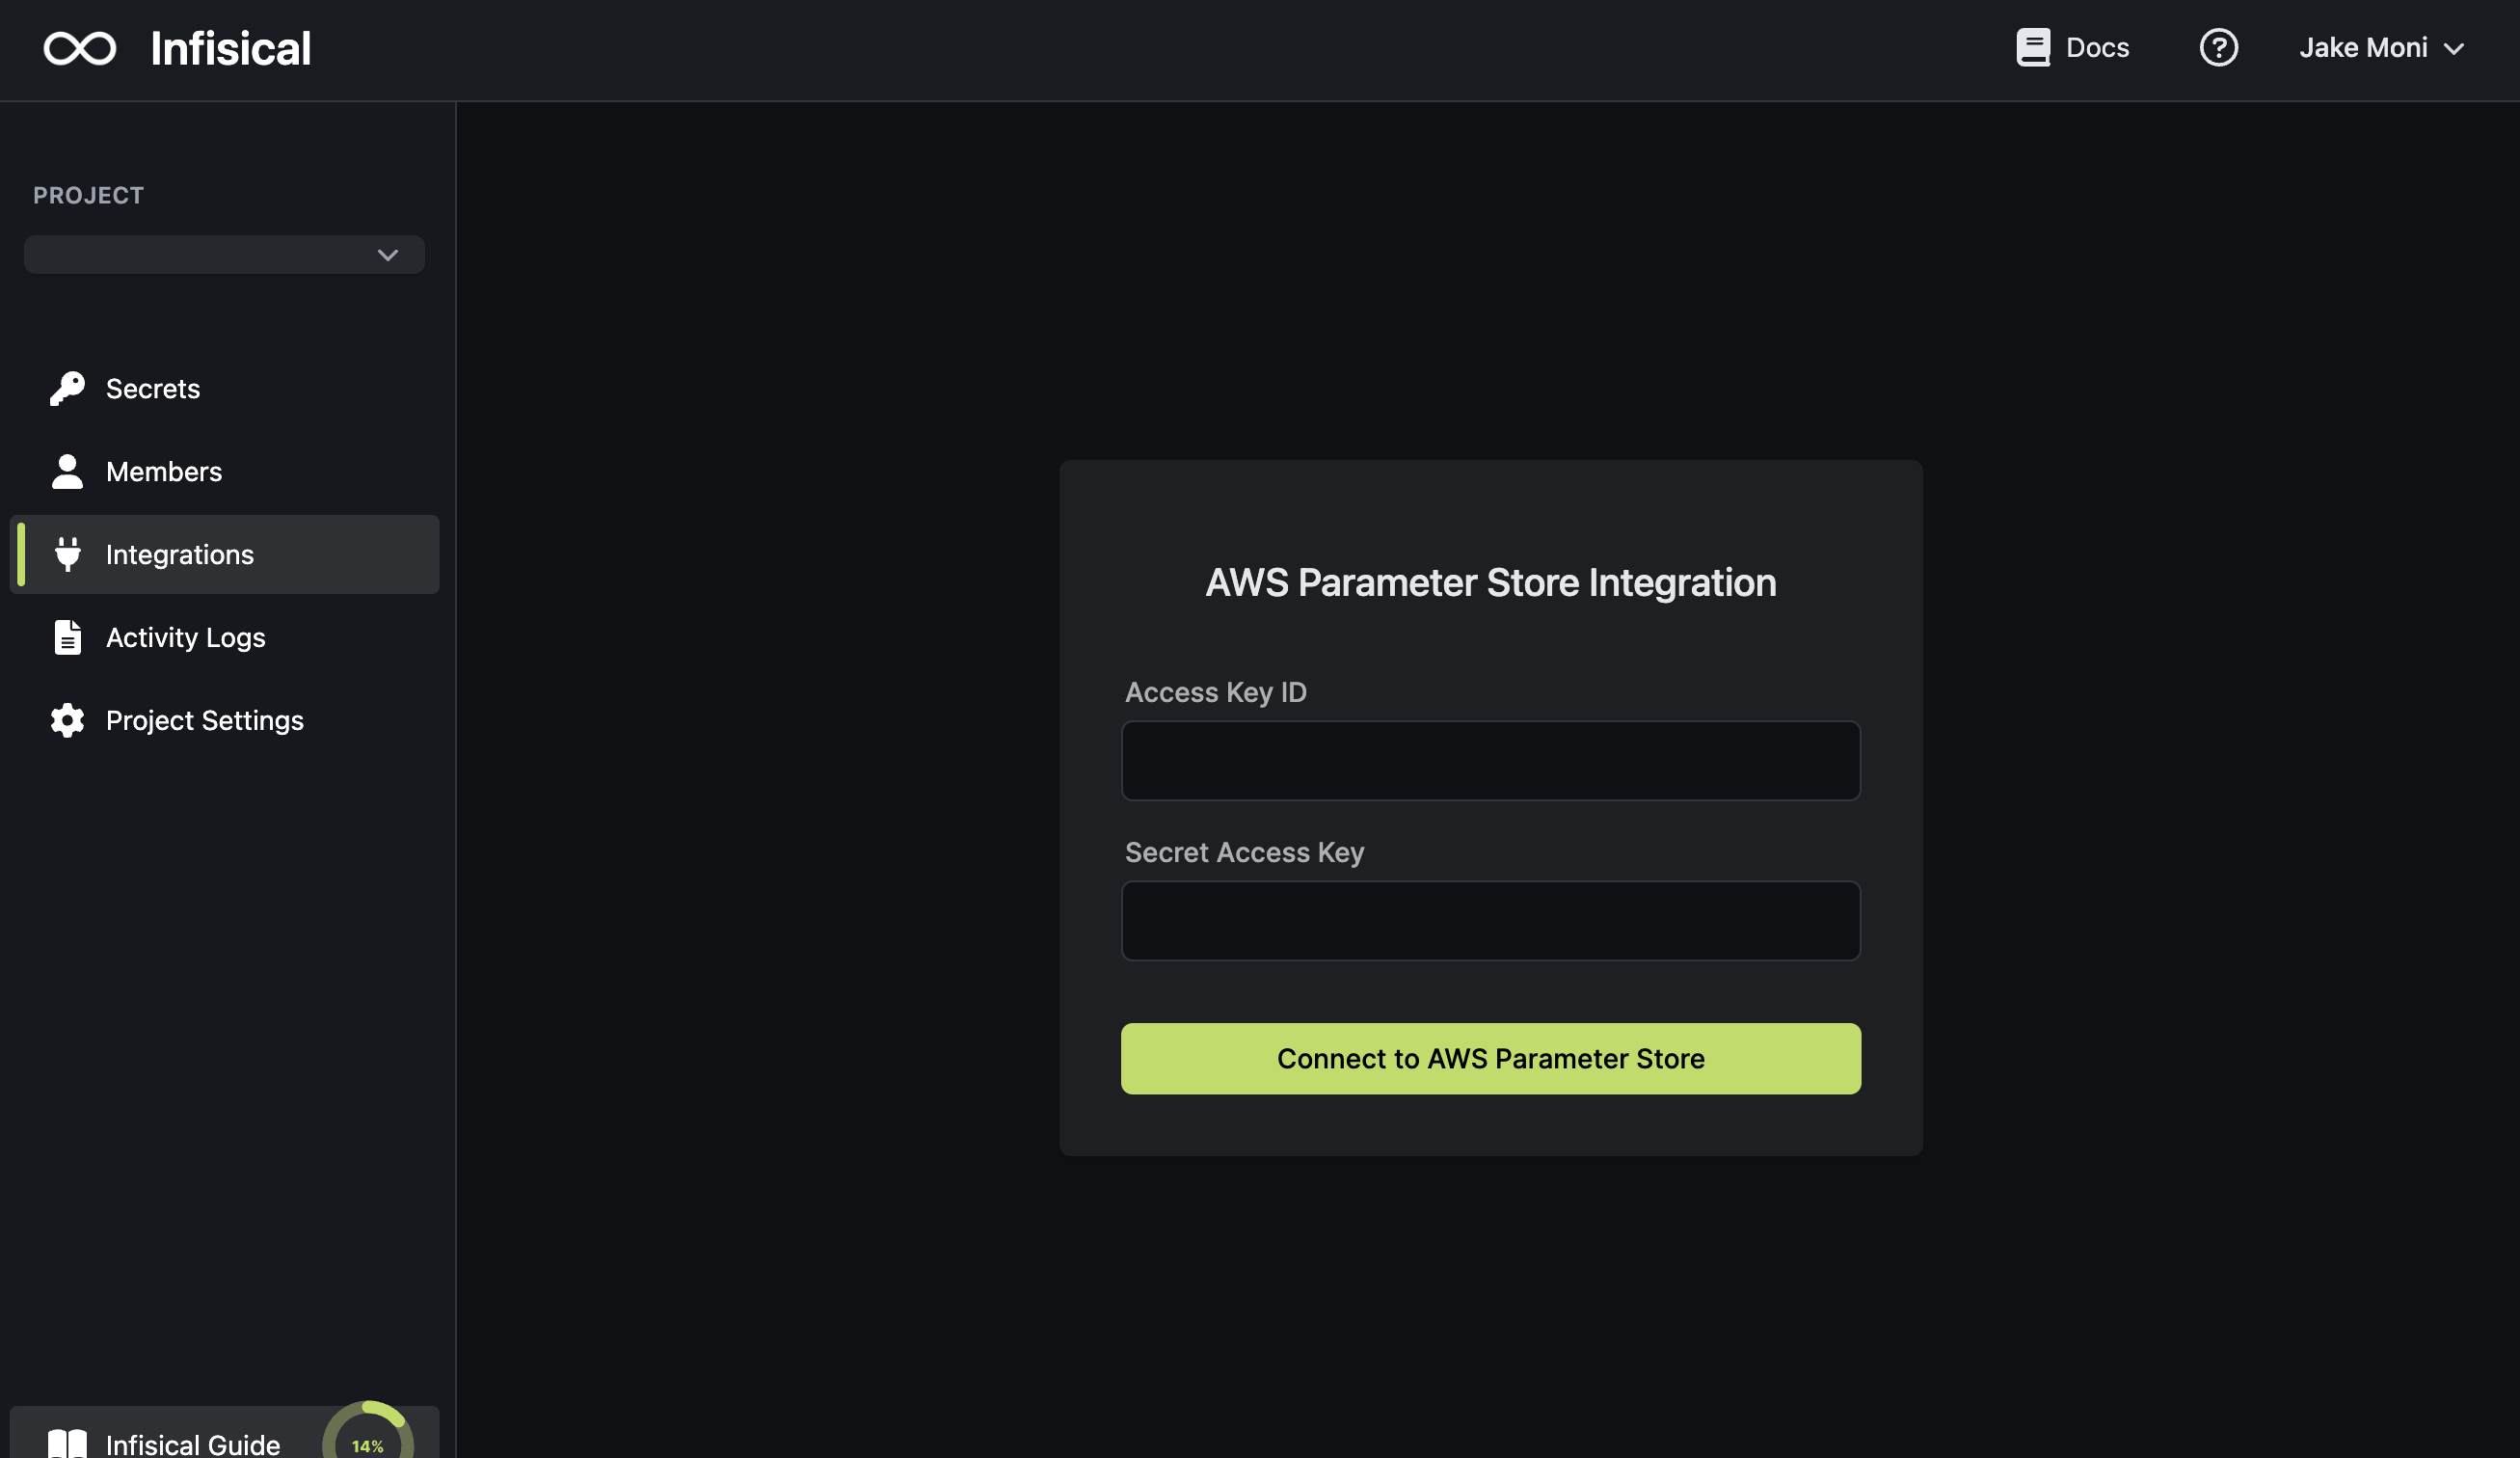
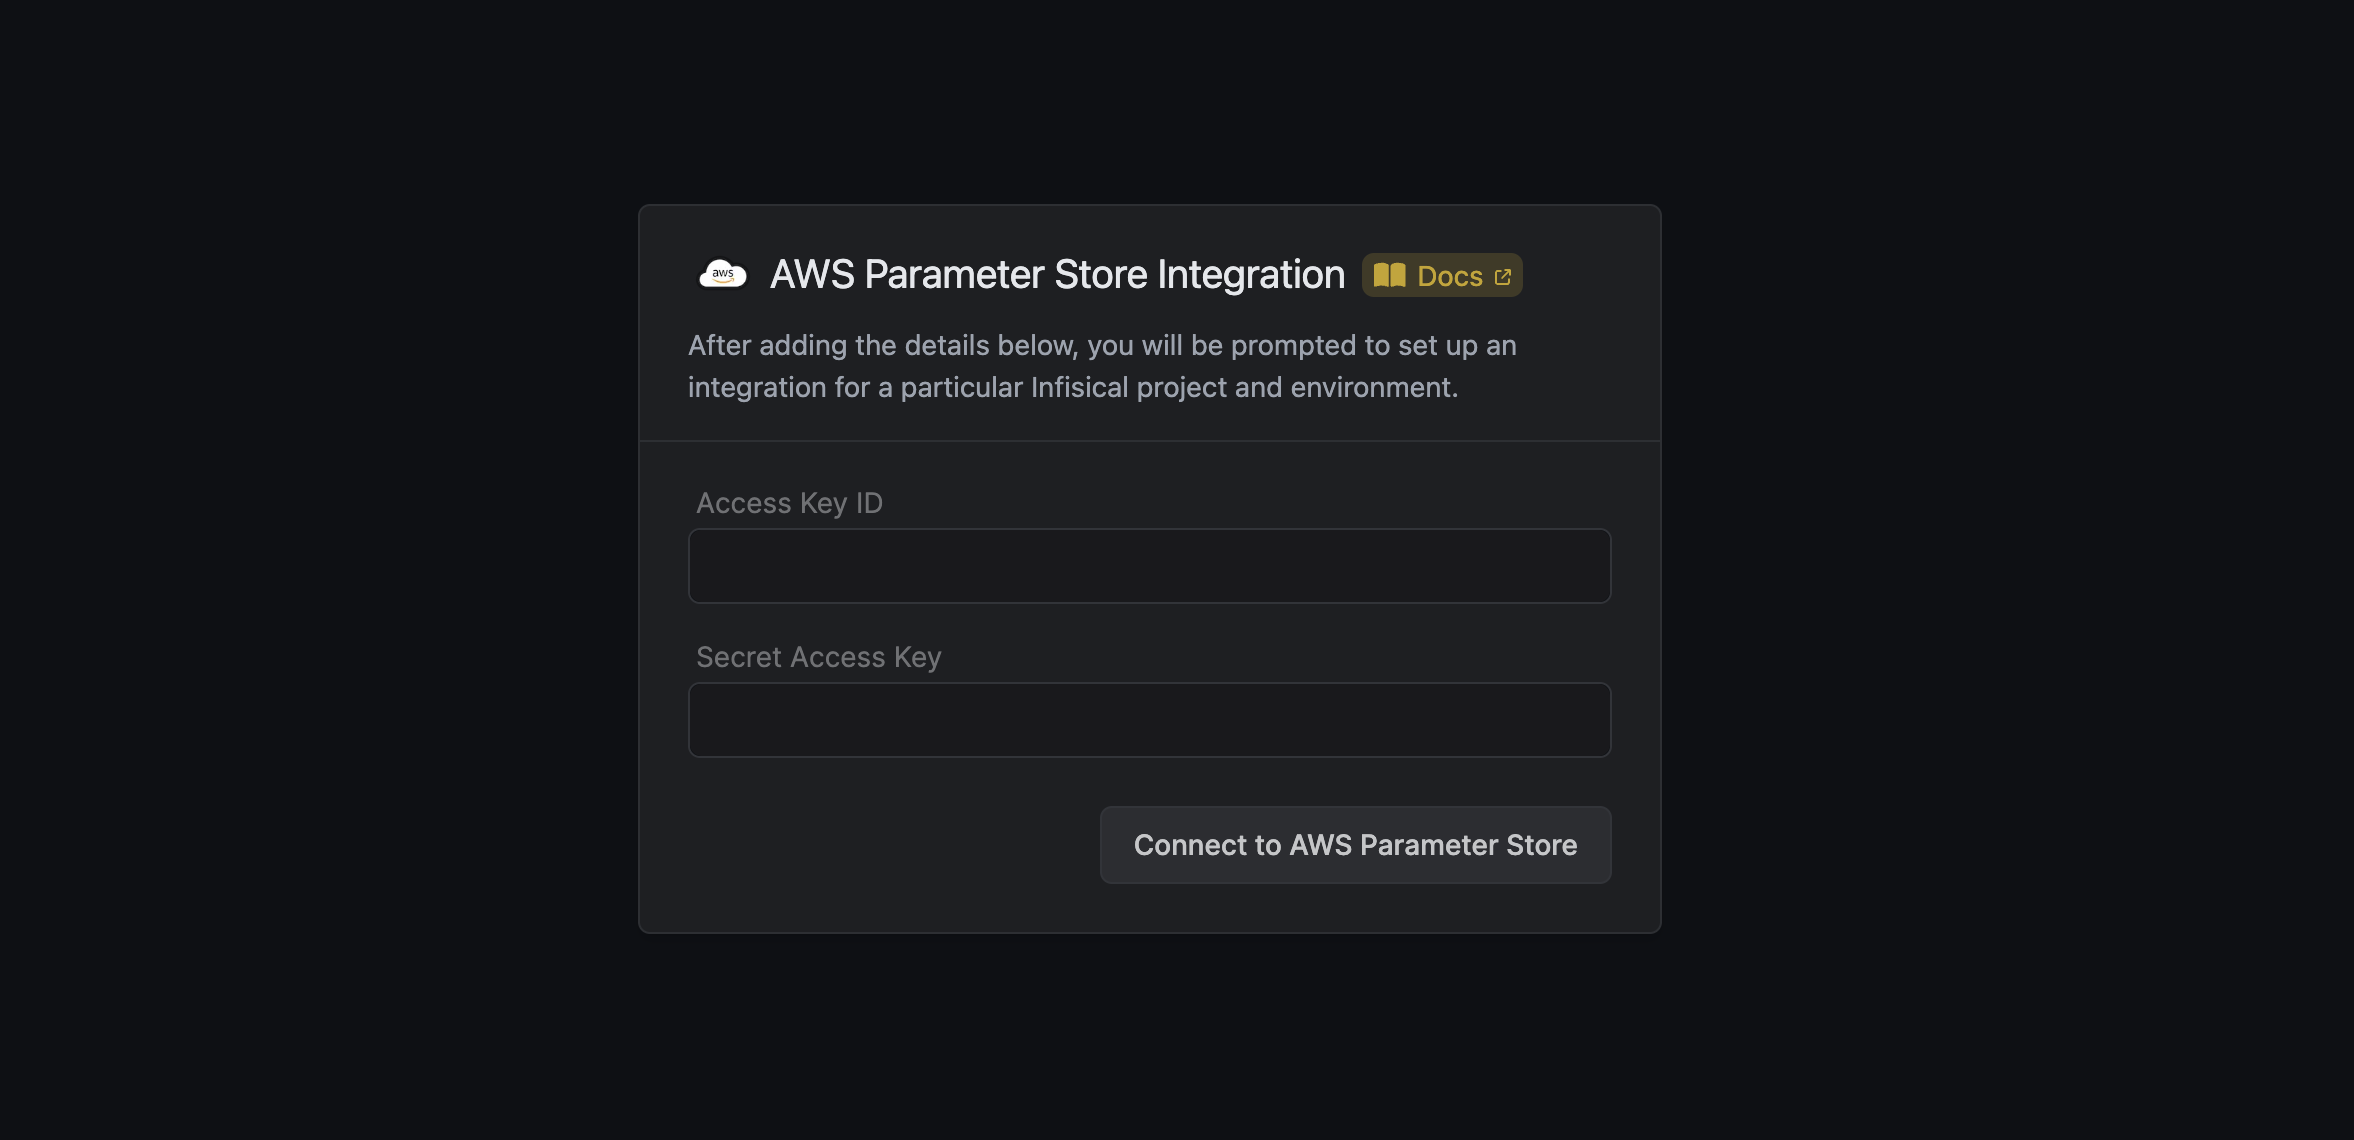
added kms key delector for parameter store

diff --git a/frontend/src/pages/integrations/aws-parameter-store/create.tsx b/frontend/src/pages/integrations/aws-parameter-store/create.tsx
@@ -14,6 +14,7 @@ import { motion } from "framer-motion";
 import queryString from "query-string";
 
 import { useCreateIntegration } from "@app/hooks/api";
+import { useGetIntegrationAuthAwsKmsKeys } from "@app/hooks/api/integrationAuth/queries";
 
 import {
   Button,
@@ -90,6 +91,7 @@ export default function AWSParameterStoreCreateIntegrationPage() {
   const [shouldTag, setShouldTag] = useState(false);
   const [tagKey, setTagKey] = useState("");
   const [tagValue, setTagValue] = useState("");
+  const [kmsKeyId, setKmsKeyId] = useState("");
 
   useEffect(() => {
     if (workspace) {
@@ -97,6 +99,19 @@ export default function AWSParameterStoreCreateIntegrationPage() {
       setSelectedAWSRegion(awsRegions[0].slug);
     }
   }, [workspace]);
+
+
+  const { data: integrationAuthAwsKmsKeys, isLoading: isIntegrationAuthAwsKmsKeysLoading } =
+    useGetIntegrationAuthAwsKmsKeys({
+      integrationAuthId: String(integrationAuthId), 
+      region: selectedAWSRegion
+    });
+
+  useEffect(() => {
+    if (integrationAuthAwsKmsKeys) {
+      setKmsKeyId(String(integrationAuthAwsKmsKeys?.filter(key => key.alias === "default")[0]?.id))
+    }
+  }, [integrationAuthAwsKmsKeys])
 
   const isValidAWSParameterStorePath = (awsStorePath: string) => {
     const pattern = /^\/([\w-]+\/)*[\w-]+\/$/;
@@ -133,7 +148,11 @@ export default function AWSParameterStoreCreateIntegrationPage() {
                   value: tagValue
                 }]
               }
-            : {})
+            : {}),
+            ...((kmsKeyId && integrationAuthAwsKmsKeys?.filter(key => key.id === kmsKeyId)[0]?.alias !== "default") ? 
+                {
+                  kmsKeyId
+                }: {})
         }
       });
 
@@ -146,7 +165,7 @@ export default function AWSParameterStoreCreateIntegrationPage() {
     }
   };
 
-  return integrationAuth && workspace && selectedSourceEnvironment ? (
+  return (integrationAuth && workspace && selectedSourceEnvironment && !isIntegrationAuthAwsKmsKeysLoading) ? (
     <div className="flex h-full w-full flex-col items-center justify-center">
       <Head>
         <title>Set Up AWS Parameter Integration</title>
@@ -286,6 +305,31 @@ export default function AWSParameterStoreCreateIntegrationPage() {
                   </FormControl>
                 </div>
               )}
+              <FormControl label="Encryption Key" className="mt-4">
+                <Select
+                  value={kmsKeyId}
+                  onValueChange={(e) => {
+                    setKmsKeyId(e)
+                  }}
+                  className="w-full border border-mineshaft-500"
+                >
+                  {integrationAuthAwsKmsKeys?.length ? (
+                    integrationAuthAwsKmsKeys.map((key) => {
+                      return (
+                        <SelectItem
+                          value={key.id as string}
+                          key={`repo-id-${key.id}`}
+                          className="w-[28.4rem] text-sm"
+                        >
+                          {key.alias}
+                        </SelectItem>
+                      );
+                    })
+                  ) : (
+                    <div />
+                  )}
+                </Select>
+              </FormControl>
             </motion.div>
           </TabPanel>
         </Tabs>
@@ -318,7 +362,7 @@ export default function AWSParameterStoreCreateIntegrationPage() {
         <title>Set Up AWS Parameter Store Integration</title>
         <link rel="icon" href="/infisical.ico" />
       </Head>
-      {isintegrationAuthLoading ? (
+      {(isintegrationAuthLoading || isIntegrationAuthAwsKmsKeysLoading) ? (
         <img
           src="/images/loading/loading.gif"
           height={70}

diff --git a/backend/src/services/integration-auth/integration-sync-secret.ts b/backend/src/services/integration-auth/integration-sync-secret.ts
@@ -477,24 +477,29 @@ const syncSecretsAWSParameterStore = async ({
       }),
       {} as Record<string, AWS.SSM.Parameter>
     );
-
   // Identify secrets to create
   await Promise.all(
     Object.keys(secrets).map(async (key) => {
       if (!(key in awsParameterStoreSecretsObj)) {
         // case: secret does not exist in AWS parameter store
         // -> create secret
-        await ssm
-          .putParameter({
-            Name: `${integration.path}${key}`,
-            Type: "SecureString",
-            Value: secrets[key].value,
-            // Overwrite: true,
-            Tags: metadata.secretAWSTag
-              ? metadata.secretAWSTag.map((tag: { key: string; value: string }) => ({ Key: tag.key, Value: tag.value }))
-              : []
-          })
-          .promise();
+        if (secrets[key].value) {
+          await ssm
+            .putParameter({
+              Name: `${integration.path}${key}`,
+              Type: "SecureString",
+              Value: secrets[key].value,
+              KeyId: metadata.kmsKeyId ? metadata.kmsKeyId : undefined,
+              // Overwrite: true,
+              Tags: metadata.secretAWSTag
+                ? metadata.secretAWSTag.map((tag: { key: string; value: string }) => ({
+                    Key: tag.key,
+                    Value: tag.value
+                  }))
+                : []
+            })
+            .promise();
+        }
         // case: secret exists in AWS parameter store
       } else if (awsParameterStoreSecretsObj[key].Value !== secrets[key].value) {
         // case: secret value doesn't match one in AWS parameter store

diff --git a/backend/src/services/integration-auth/integration-auth-service.ts b/backend/src/services/integration-auth/integration-auth-service.ts
@@ -572,14 +572,14 @@ export const integrationAuthServiceFactory = ({
     const response = keys
       .Keys!.map((key) => {
         const keyAlias = aliases.Aliases!.find((alias) => key.KeyId === alias.TargetKeyId);
-        if (!keyAlias?.AliasName?.includes("alias/aws/") || keyAlias?.AliasName?.includes("alias/aws/secretsmanager")) {
+        if (!keyAlias?.AliasName?.includes("alias/aws/")) {
           return { id: String(key.KeyId), alias: String(keyAlias?.AliasName || key.KeyId) };
         }
         return { id: "null", alias: "null" };
       })
       .filter((elem) => elem.id !== "null");
 
-    return response;
+    return [...response, { id: "null", alias: "default" }];
   };
 
   const getQoveryProjects = async ({

diff --git a/frontend/src/views/IntegrationsPage/components/IntegrationsSection/IntegrationsSection.tsx b/frontend/src/views/IntegrationsPage/components/IntegrationsSection/IntegrationsSection.tsx
@@ -217,11 +217,12 @@ export const IntegrationsSection = ({
         isOpen={popUp.deleteConfirmation.isOpen}
         title={`Are you sure want to remove ${
           (popUp?.deleteConfirmation.data as TIntegration)?.integration || " "
-        } integration for ${(popUp?.deleteConfirmation.data as TIntegration)?.app || " "}?`}
+        } integration for ${(popUp?.deleteConfirmation.data as TIntegration)?.app || "this project"}?`}
         onChange={(isOpen) => handlePopUpToggle("deleteConfirmation", isOpen)}
         deleteKey={
           (popUp?.deleteConfirmation?.data as TIntegration)?.app ||
           (popUp?.deleteConfirmation?.data as TIntegration)?.owner ||
+          (popUp?.deleteConfirmation?.data as TIntegration)?.path ||
           ""
         }
         onDeleteApproved={async () =>

diff --git a/frontend/src/pages/integrations/aws-secret-manager/create.tsx b/frontend/src/pages/integrations/aws-secret-manager/create.tsx
@@ -148,7 +148,7 @@ export default function AWSSecretManagerCreateIntegrationPage() {
                 }]
               }
             : {}),
-          ...((kmsKeyId && integrationAuthAwsKmsKeys?.filter(key => key.id === kmsKeyId)[0]?.alias !== "alias/aws/secretsmanager") ? 
+          ...((kmsKeyId && integrationAuthAwsKmsKeys?.filter(key => key.id === kmsKeyId)[0]?.alias !== "default") ? 
               {
                 kmsKeyId
               }: {})

diff --git a/frontend/src/views/IntegrationsPage/components/CloudIntegrationSection/CloudIntegrationSection.tsx b/frontend/src/views/IntegrationsPage/components/CloudIntegrationSection/CloudIntegrationSection.tsx
@@ -109,7 +109,7 @@ export const CloudIntegrationSection = ({
               </div>
               {cloudIntegration.isAvailable &&
                 Boolean(integrationAuths?.[cloudIntegration.slug]) && (
-                  <div className="absolute top-0 right-0 z-40 h-full">
+                  <div className="absolute top-0 right-0 z-30 h-full">
                     <div className="relative h-full">
                       <div className="absolute top-0 right-0 w-24 flex-row items-center overflow-hidden whitespace-nowrap rounded-tr-md rounded-bl-md bg-primary py-0.5 px-2 text-xs text-black opacity-80 transition-all duration-300 group-hover:w-0 group-hover:p-0">
                         <FontAwesomeIcon icon={faCheck} className="mr-2 text-xs" />